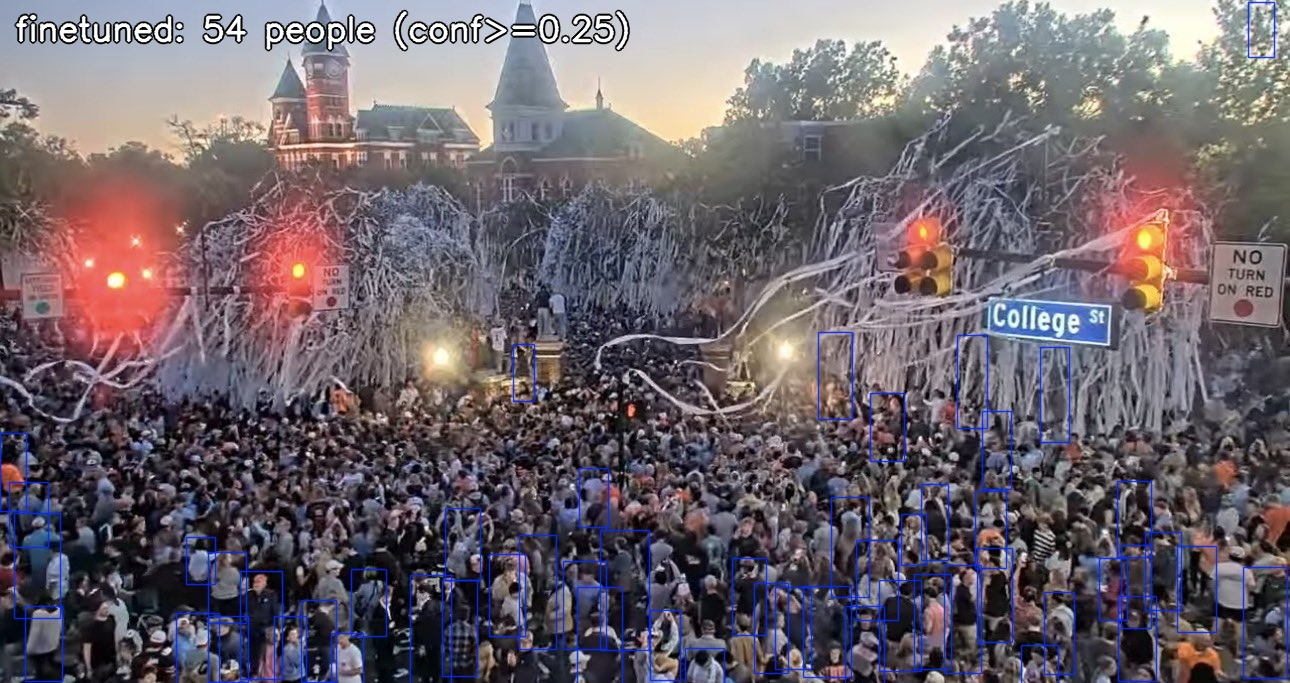
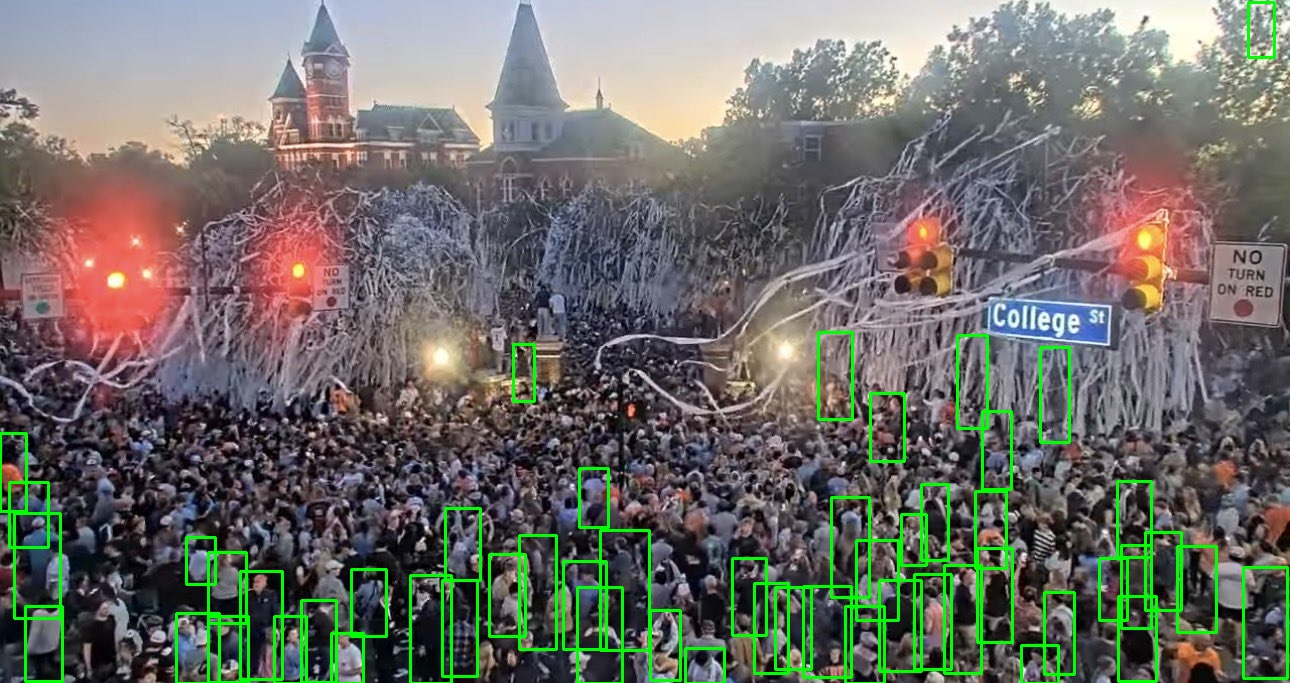
Draw Toomer's predictions as thicker green boxes with no text
Also clear the label txt before save_txt, since it appends on rerun.

diff --git a/infer_toomers.py b/infer_toomers.py
@@ -17,14 +17,14 @@ for name, (w, conf) in models.items():
     r = YOLO(w).predict(str(img), conf=conf, iou=0.7, imgsz=1280, device=0,
                         classes=[0], max_det=3000, verbose=False)[0]
     n = len(r.boxes)
-    vis = r.plot(labels=False, conf=False, line_width=1)
-    cv2.putText(vis, f"{name}: {n} people (conf>={conf})", (15, 40),
-                cv2.FONT_HERSHEY_SIMPLEX, 1.1, (0, 0, 0), 5, cv2.LINE_AA)
-    cv2.putText(vis, f"{name}: {n} people (conf>={conf})", (15, 40),
-                cv2.FONT_HERSHEY_SIMPLEX, 1.1, (255, 255, 255), 2, cv2.LINE_AA)
+    vis = r.orig_img.copy()
+    for x1, y1, x2, y2 in r.boxes.xyxy.cpu().numpy().astype(int):
+        cv2.rectangle(vis, (x1, y1), (x2, y2), (0, 255, 0), 2)
     out = out_dir / f"{img.stem}_{name}_pred.jpg"
     cv2.imwrite(str(out), vis)
-    r.save_txt(str(out_dir / f"{img.stem}_{name}_pred.txt"), save_conf=True)
+    txt = out_dir / f"{img.stem}_{name}_pred.txt"
+    txt.unlink(missing_ok=True)  # save_txt appends, so clear any previous run
+    r.save_txt(str(txt), save_conf=True)
     summary[name] = {"weights": w, "conf": conf, "count": n, "image": out.name}
     print(name, n, out)
 (out_dir / f"{img.stem}_summary.json").write_text(json.dumps(summary, indent=2))
